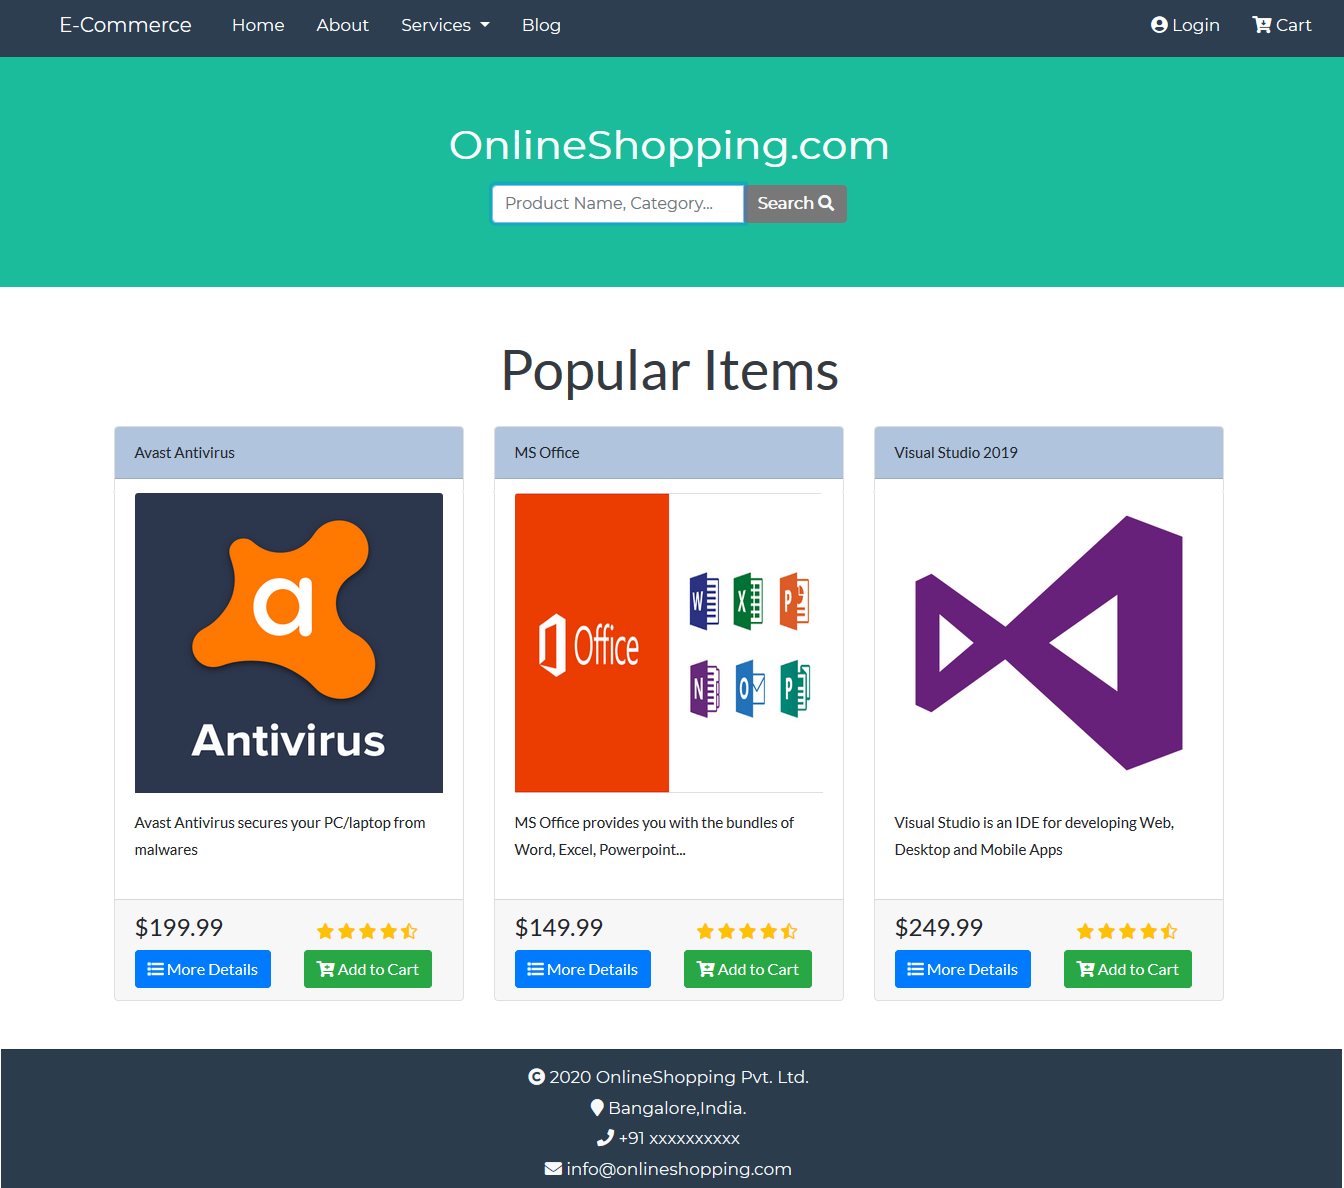
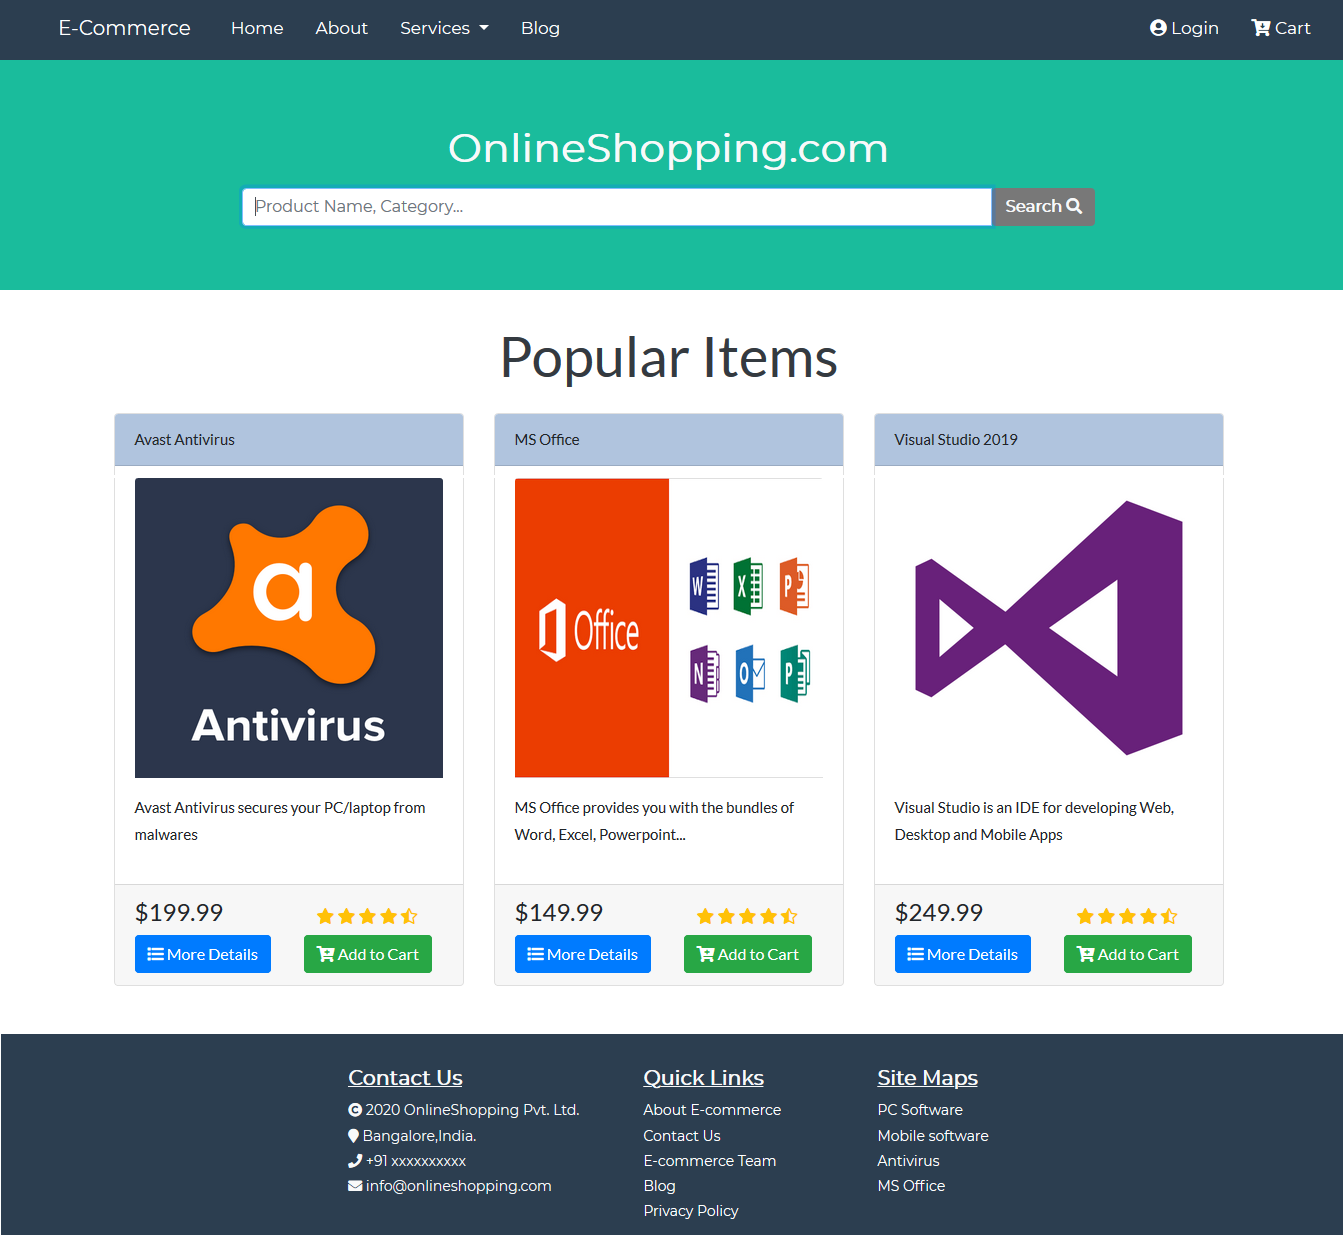
homePage,style and image modified

diff --git a/homePage.html b/homePage.html
@@ -2,7 +2,7 @@
 <html lang="en">
 
 <head>
-    <title>Bootstrap Example</title>
+    <title>E-commerce</title>
     <meta charset="utf-8">
     <meta name="viewport" content="width=device-width, initial-scale=1">
     <link rel="stylesheet" href="https://maxcdn.bootstrapcdn.com/bootstrap/4.4.1/css/bootstrap.min.css">
@@ -64,19 +64,21 @@
         <h1 class="font-weight-bold">
             OnlineShopping.com
         </h1>
-        <form class="form-inline justify-content-center mt-3">
-            <div class="input-group">
-                <input type="text" class="form-control" size="20" placeholder="Product Name, Category..." required>
-                <div class="input-group-btn">
-                    <button type="button" class="btn searchBtn text-light font-weight-bold">Search
-                        <i class="fas fa-search"></i>
-                    </button>
+        <form class="form-row justify-content-center mt-3">
+            <div class="col-md-8">
+                <div class="input-group">
+                    <input type="text" class="form-control" placeholder="Product Name, Category..." required>
+                    <div class="input-group-btn">
+                        <button type="button" class="btn searchBtn text-light font-weight-bold">Search
+                            <i class="fas fa-search"></i>
+                        </button>
+                    </div>
                 </div>
             </div>
         </form>
     </div>
     <div class="container">
-        <div class="row justify-content-center mt-5">
+        <div class="row justify-content-center">
             <h2 class="display-4 text-dark">Popular Items</h2>
         </div>
         <div class="card-deck mt-3">
@@ -84,7 +86,7 @@
                 <div class="card-header">Avast Antivirus</div>
                 <div class="card-body">
                     <img src="images/avast.png" class="card-img-top mb-3" alt="Avast Antivirus">
-                    <p>Avast Antivirus secures your PC/laptop from malwares</p> 
+                    <p>Avast Antivirus secures your PC/laptop from malwares</p>
                 </div>
                 <div class="card-footer">
                     <div class="row">
@@ -208,27 +210,51 @@
             </div>
         </div>
     </div>
-    <div class="container-fluid text-center mt-5 customPageHeaderFooter text-light">
-        <div class="row">
-            <div class="col card-footer">
-                <section>
-                    <i class="fas fa-copyright"></i>
-                    2020 OnlineShopping Pvt. Ltd.
-                </section>
-                <section>
-                    <i class="fas fa-map-marker"></i>
-                    Bangalore,India.
-                </section>
-                <section>
-                    <i class="fas fa-phone"></i>
-                    +91 xxxxxxxxxx
-                </section>
-                <section>
-                    <i class="fas fa-envelope"></i>
-                    info@onlineshopping.com
-                </section>
-            </div>
-        </div>
+    <div class="container-fluid mt-5 p-3 customPageHeaderFooter text-light"> 
+        <form class="form-row justify-content-center mt-3">
+            <section class="ml-5 mr-5" style="text-align: left;"> 
+                <h5 class="font-weight-bolder">
+                    <u>Contact Us</u> 
+                </h5> 
+                <i class="fas fa-copyright"></i> 
+                <span>2020 OnlineShopping Pvt. Ltd.</span>
+                <br>
+                <i class="fas fa-map-marker"></i>
+                <span>Bangalore,India.</span>
+                <br>
+                <i class="fas fa-phone"></i>
+                <span>+91 xxxxxxxxxx</span>
+                <br>
+                <i class="fas fa-envelope"></i> 
+                <span>info@onlineshopping.com</span>
+            </section>
+            <section class="ml-3 mr-5" style="text-align: left;">
+                <h5 class="font-weight-bolder">
+                    <u>Quick Links</u>
+                </h5> 
+                <a href="#">About E-commerce</a>
+                <br>
+                <a href="#">Contact Us</a>
+                <br>
+                <a href="#">E-commerce Team</a>
+                <br>
+                <a href="#">Blog</a>
+                <br>
+                <a href="#">Privacy Policy</a>               
+            </section> 
+            <section class="ml-5 mr-5" style="text-align: left;">
+                <h5 class="font-weight-bolder">
+                    <u>Site Maps</u>
+                </h5> 
+                <a href="#">PC Software</a>
+                <br>
+                <a href="#">Mobile software</a>
+                <br>
+                <a href="#">Antivirus</a>
+                <br>
+                <a href="#">MS Office</a>             
+            </section>
+        </form> 
     </div>
 </body>
 

diff --git a/style/style.css b/style/style.css
@@ -5,8 +5,12 @@ body {
 
 .customPageHeaderFooter {
     background-color: #2c3e50;
-    font-family: Montserrat, sans-serif;
-    font-size: 17px !important; 
+    font-family: Montserrat, sans-serif; 
+    font-size: 14px;
+}
+
+.customPageHeaderFooter>#navbarSupportedContent { 
+    font-size: 17px !important;
 }
 
 .navbar li a, .navbar .navbar-brand {
@@ -16,7 +20,7 @@ body {
 
 li>a:hover
 {
-    color:#e1e790;
+    color:#ccceb1;
 }
 
 .formNav {
@@ -54,4 +58,17 @@ li>a:hover
 {
     background-color: #2c3e50 !important ;
     color: white !important;
+}
+
+section>a{
+    color: white !important;  
+}
+
+section>a:hover{
+    color: #ccceb1 !important;  
+    text-decoration: none;
+}
+
+section>span:hover{
+    color: #ccceb1 !important;
 }
